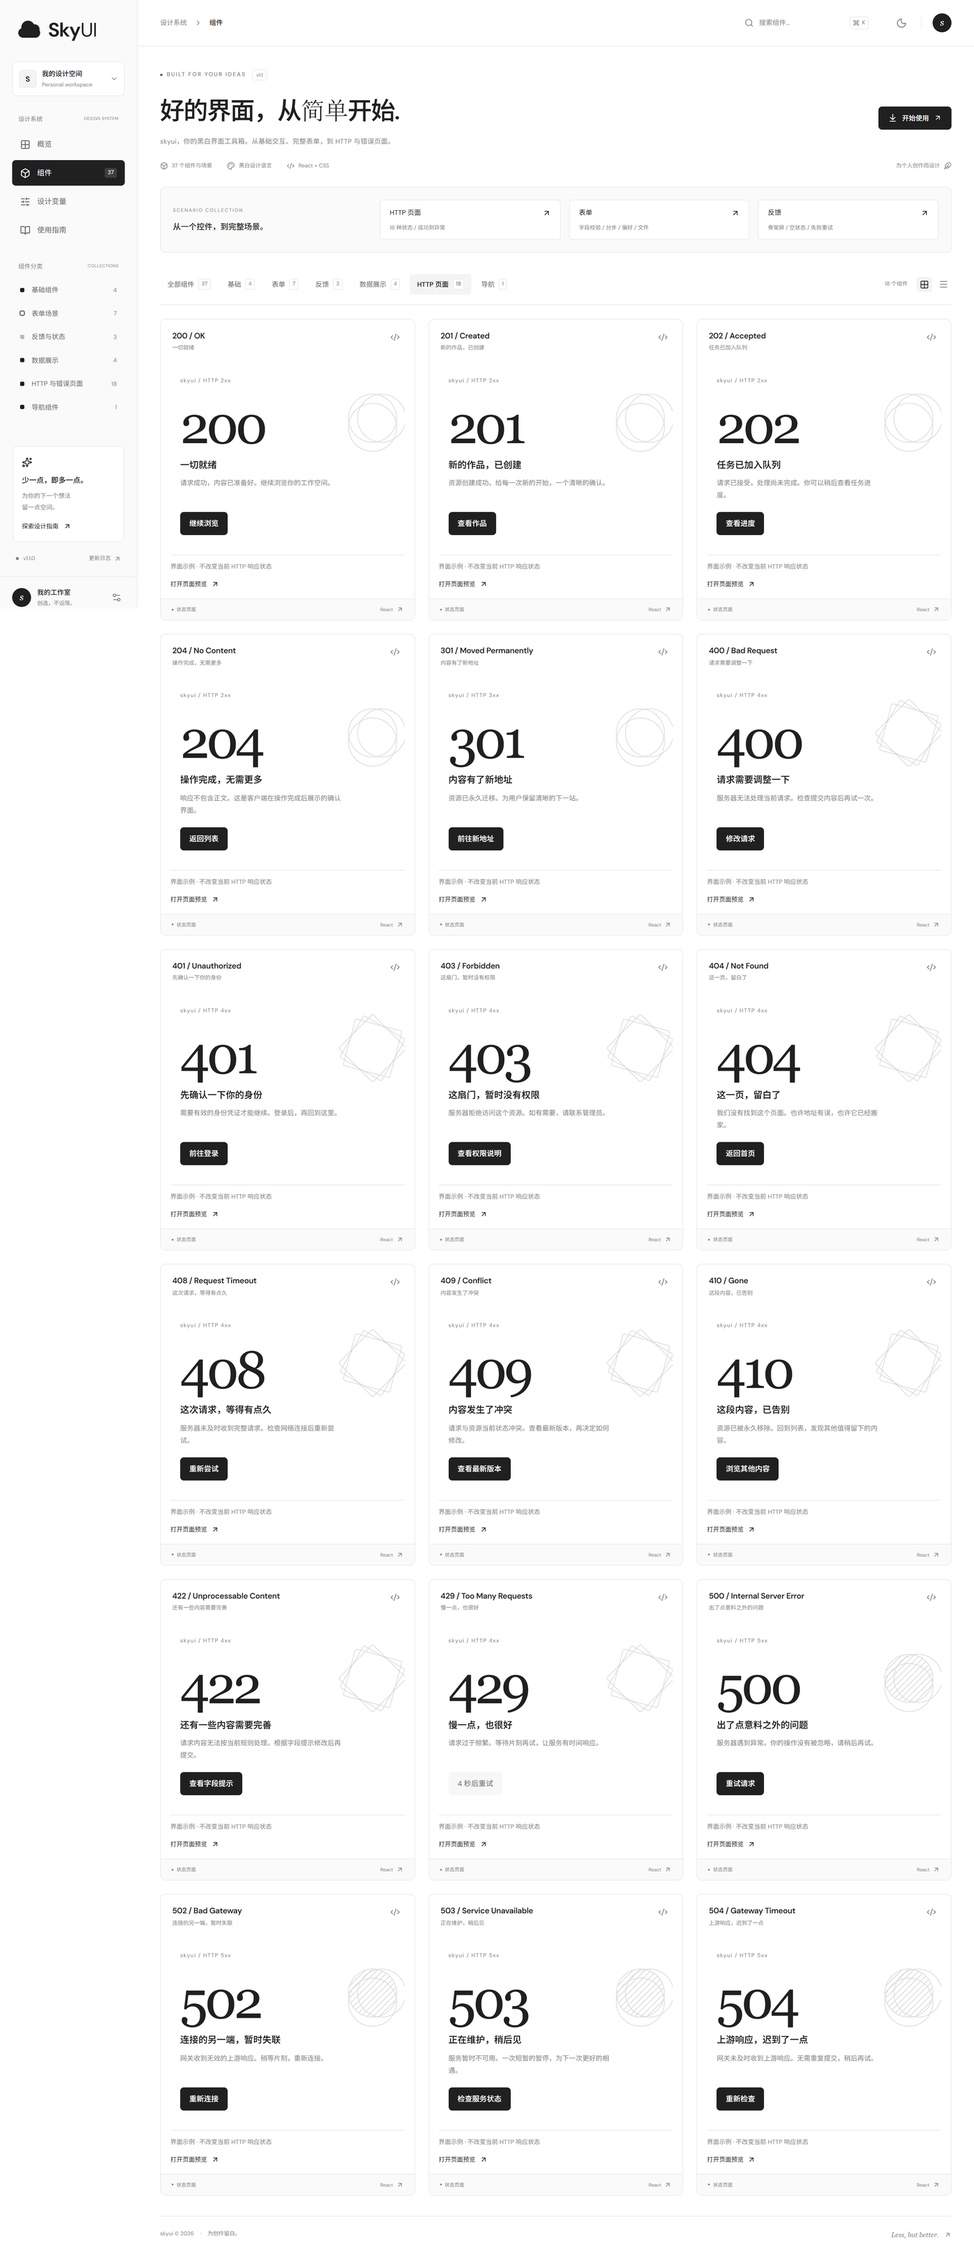
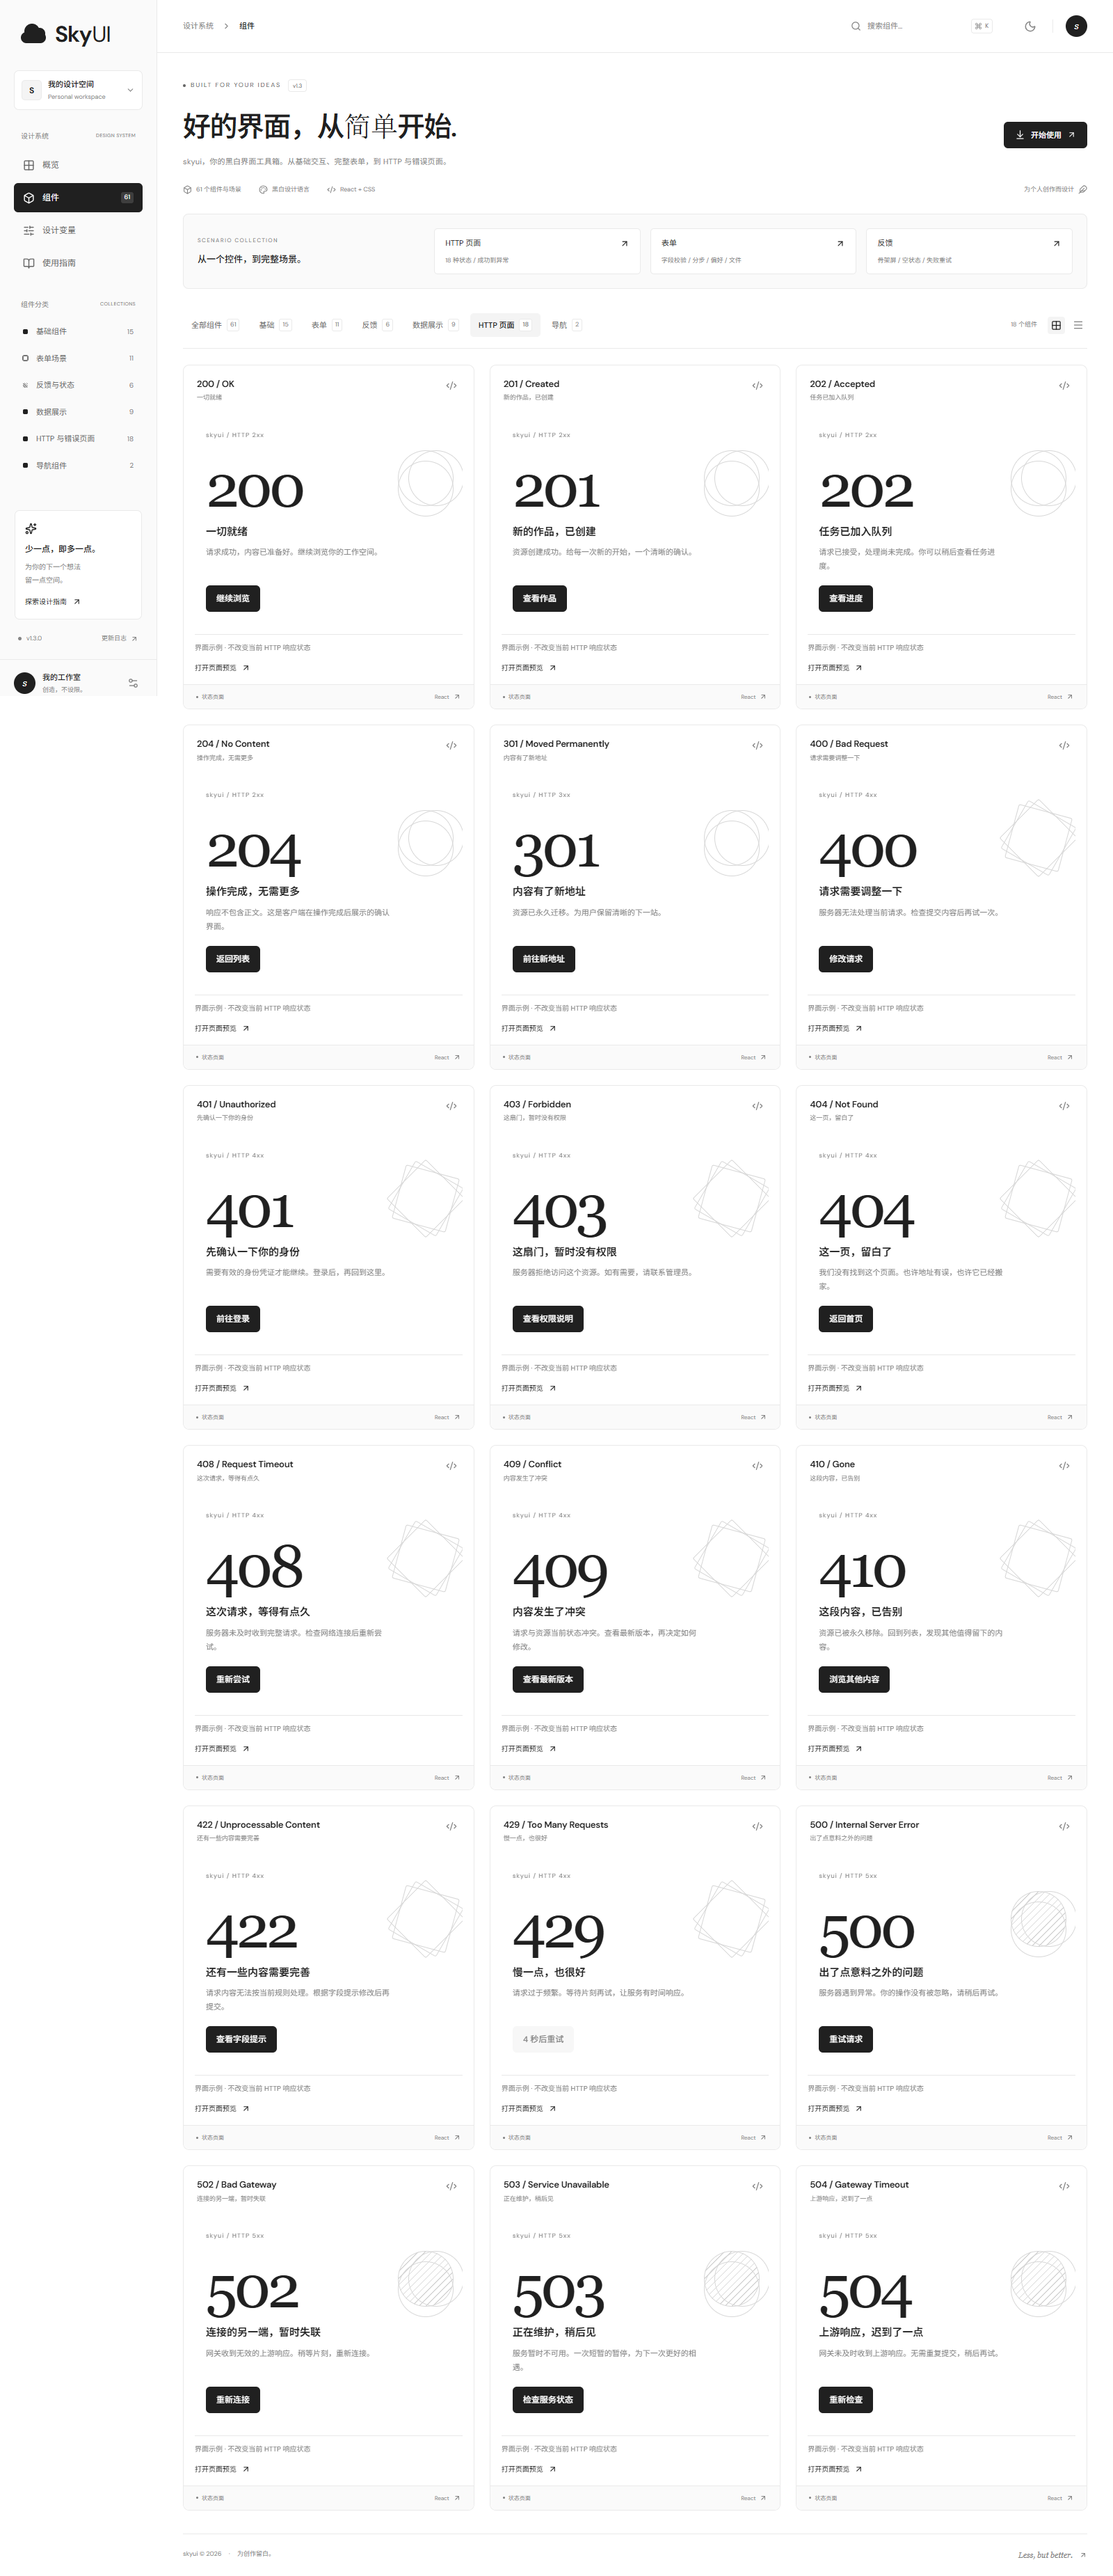
docs: README 数据与插图对齐 v1.3.0，13 张界面图全部重截
数据（与本地渲染的展示站逐项核对）：
- 组件地图统一为 ui.tsx 导出口径：排版容器 6 / 基础 12 / 浮层 8 /
  选择 5 / 导航 5 / 数据布局 14 / 表单命令 5 / 配置 3 = 58 个组件与工具
- 新增「画廊 61 张卡片」分布表：基础 15 / 表单 11 / 反馈 6 /
  数据展示 9 / 导航 2 / HTTP 18（数字取自页面实际渲染）
- 图例修正：表单场景 7 → 11，反馈与数据展示图例按新卡片重写
- 英文版同步新增画廊分布表

插图（docs/images 13 张全部重截，1600px 宽）：
- 01/03 画廊首屏（浅色 / 深色）、04-06 概览/变量/指南
- 07 下载对话框、08-404/429 大尺寸预览
- 09 表单 11 场景、10 HTTP 18 状态、11 数据展示 9 场景、
  12 反馈 6 场景、13 移动端视图
- 旧图为 v1.1 时代截图，新组件（Card/Typography/Command/Calendar 等）此前无图

展示站过时文案：
- Timeline 卡片 v1.2.0 / 34 个组件 → v1.3.0 / 58 个组件
- Timeline 代码片段与 409 示例数据版本号同步
- .gitignore 忽略 .playwright-cli/

diff --git a/src/routes/index.tsx b/src/routes/index.tsx
@@ -33,7 +33,7 @@ const snippets: Record<string, string> = {
   'Data Table': '<Table\n  columns={[{ key: "name", header: "项目" }]}\n  rows={rows}\n  caption="示例数据"\n/>',
   Steps: '<Steps items={["基本信息", "确认内容", "完成"]} current={1} />',
   Statistic: '<Statistic label="本月访问量" value="2,846" delta="12.8%" />',
-  Timeline: '<Timeline\n  items={[\n    { title: "发布 v1.2", time: "今天", description: "组件库大版本更新。" },\n  ]}\n/>',
+  Timeline: '<Timeline\n  items={[\n    { title: "发布 v1.3", time: "今天", description: "组件库大版本更新。" },\n  ]}\n/>',
   Descriptions: '<Descriptions\n  items={[\n    { label: "方向", value: "极简设计" },\n    { label: "状态", value: "进行中" },\n  ]}\n/>',
   Divider: '<Divider label="OR" />\n<Divider vertical />',
   Typography: '<Title level={2}>标题</Title>\n<Paragraph>正文段落，行高 1.8。</Paragraph>\n<Text type="muted">次要文本</Text>\n<Text code>skyui-title</Text>\n<Kbd>⌘K</Kbd>',
@@ -144,7 +144,7 @@ function Home() {
     { title: 'Data Table', subtitle: '数据表格 · 筛选排序分页', category: '数据展示', content: <DataTableDemo />, className: 'scenario-component' },
     { title: 'Mini Table', subtitle: '表格组件 · columns 配置', category: '数据展示', content: <Table rowKey={row => row.name} caption="素材清单 · 全部为示例数据" rows={[{ name: '几何海报', owner: 'Lin', state: '已就绪' }, { name: '留白字体包', owner: 'Xu', state: '生成中' }, { name: '灰阶样机', owner: 'Yan', state: '已就绪' }]} columns={[{ key: 'name', header: '素材', render: row => <span><strong>{row.name}</strong><small>{row.owner}</small></span> }, { key: 'state', header: '状态', render: row => <Badge variant={row.state === '已就绪' ? 'dark' : 'outline'}>{row.state}</Badge> }]} /> },
     { title: 'Statistic', subtitle: '统计数值', category: '数据展示', content: <div style={{ display: 'grid', gap: 14 }}><Statistic label="本月访问量" value="2,846" delta="12.8%" /><Statistic label="进行中项目" value="03" delta="2" trend="down" /><Statistic label="收藏" value="512" /></div> },
-    { title: 'Timeline', subtitle: '时间线', category: '数据展示', content: <Timeline items={[{ title: '发布 v1.2.0', time: '今天', description: '34 个组件与工具，浮层与表格全部就位。' }, { title: '重写 README', time: '10.12', description: '补充界面示意图与边界说明。' }, { title: '首次提交', time: '10.12', description: '黑白设计语言成形。' }]} /> },
+    { title: 'Timeline', subtitle: '时间线', category: '数据展示', content: <Timeline items={[{ title: '发布 v1.3.0', time: '今天', description: '58 个组件与工具，排版、卡片与命令面板全部就位。' }, { title: '重写 README', time: '10.12', description: '补充界面示意图与边界说明。' }, { title: '首次提交', time: '10.12', description: '黑白设计语言成形。' }]} /> },
     { title: 'Descriptions', subtitle: '描述列表', category: '数据展示', content: <Descriptions items={[{ label: '项目方向', value: '个人网站' }, { label: '当前状态', value: '进行中' }, { label: '协作成员', value: 'Lin / Xu / Yan' }, { label: '更新时间', value: '10.12' }]} /> },
     { title: 'Typography', subtitle: '排版 · 标题与文本', category: '基础', content: <div style={{ display: 'grid', gap: 10 }}><Title level={3}>少一些噪音，多一些创造。</Title><Paragraph>段落文本使用 12px 字号与 1.8 行高，保证黑白界面下的阅读节奏与呼吸感。</Paragraph><div style={{ display: 'flex', flexWrap: 'wrap', gap: 10, alignItems: 'center' }}><Text strong>加粗</Text><Text type="secondary">次要</Text><Text type="muted">弱化</Text><Text code>skyui-title</Text><Text mark>标记</Text><Text underline>下划线</Text><Text strikethrough>删除线</Text></div><div style={{ display: 'flex', gap: 6, alignItems: 'center' }}><Text type="muted">按</Text><Kbd>⌘</Kbd><Text type="muted">+</Text><Kbd>K</Kbd><Text type="muted">打开命令面板</Text></div></div> },
     { title: 'Card', subtitle: '卡片容器', category: '基础', content: <div style={{ display: 'grid', gap: 12 }}><Card title="项目卡片" extra={<Badge variant="outline">进行中</Badge>} footer="更新于 10.12">卡片正文区域，自带标题栏、内容区与页脚的分层结构， hoverable 可开启悬停浮起。</Card><Card title="紧凑模式" padded={false}><div style={{ padding: 14 }}><Text type="muted">padded=false 时内容区去掉内边距，适合放置表格或图像。</Text></div></Card></div> },

diff --git a/src/components/scenarios.tsx b/src/components/scenarios.tsx
@@ -14,7 +14,7 @@ export const httpScenarios = [
   { code: 403, name: 'Forbidden', title: '这扇门，暂时没有权限', description: '服务器拒绝访问这个资源。如有需要，请联系管理员。', action: '查看权限说明', result: '此处可展示所需权限及管理员联系方式。' },
   { code: 404, name: 'Not Found', title: '这一页，留白了', description: '我们没有找到这个页面。也许地址有误，也许它已经搬家。', action: '返回首页', result: '首页入口示例。此处可接入应用的真实首页导航。' },
   { code: 408, name: 'Request Timeout', title: '这次请求，等得有点久', description: '服务器未及时收到完整请求。检查网络连接后重新尝试。', action: '重新尝试', result: '重试完成，内容已恢复（本地演示）。' },
-  { code: 409, name: 'Conflict', title: '内容发生了冲突', description: '请求与资源当前状态冲突。查看最新版本，再决定如何修改。', action: '查看最新版本', result: '最新版本：v1.2。此处可接入版本比较和冲突解决界面。' },
+  { code: 409, name: 'Conflict', title: '内容发生了冲突', description: '请求与资源当前状态冲突。查看最新版本，再决定如何修改。', action: '查看最新版本', result: '最新版本：v1.3。此处可接入版本比较和冲突解决界面。' },
   { code: 410, name: 'Gone', title: '这段内容，已告别', description: '资源已被永久移除。回到列表，发现其他值得留下的内容。', action: '浏览其他内容', result: '此处可展示替代资源或返回内容列表。' },
   { code: 422, name: 'Unprocessable Content', title: '还有一些内容需要完善', description: '请求内容无法按当前规则处理。根据字段提示修改后再提交。', action: '查看字段提示', result: '字段提示示例：项目名称不能为空，说明至少需要 10 个字符。' },
   { code: 429, name: 'Too Many Requests', title: '慢一点，也很好', description: '请求过于频繁。等待片刻再试，让服务有时间响应。', action: '重新尝试', result: '重试成功（本地演示）。实际等待时间应以服务器提示为准。' },

diff --git a/README.en.md b/README.en.md
@@ -36,6 +36,19 @@ SkyUI is not an installable package — it is a **copy-paste design language**. 
 - 18 HTTP status pages (200 → 504), including a 429 with retry countdown
 - Light/dark theme via a single CSS class; all visuals drawn in CSS, zero image assets
 
+## The 61-card gallery
+
+The showcase gallery is organized into 6 categories — **61 cards** in total, with keyword search and grid / list views:
+
+| Category | Cards | Contents |
+| --- | --- | --- |
+| **Base** | 15 | Buttons, Tabs, Badges, Accordion, Tooltip, Dropdown, Divider, Typography, Card, Segmented, Toggle, Popover, HoverCard, Grid, ConfigProvider |
+| **Forms** | 11 | Inputs, selection controls, progress & slider, contact form, multi-step form, settings, file upload, RadioGroup, Rate, Calendar, DatePicker |
+| **Feedback** | 6 | Notifications & Toast, dialog, drawer, data states, Spin, command palette |
+| **Data display** | 9 | Profile card, data overview, avatars, data table, mini table, statistic, timeline, descriptions, carousel |
+| **Navigation** | 2 | Breadcrumb & pagination, steps |
+| **HTTP pages** | 18 | Every status code from 200 to 504 |
+
 ## Requirements
 
 - **React 18+** only (uses `useId`; the showcase site runs on React 19). No Lucide, no other runtime dependencies.
